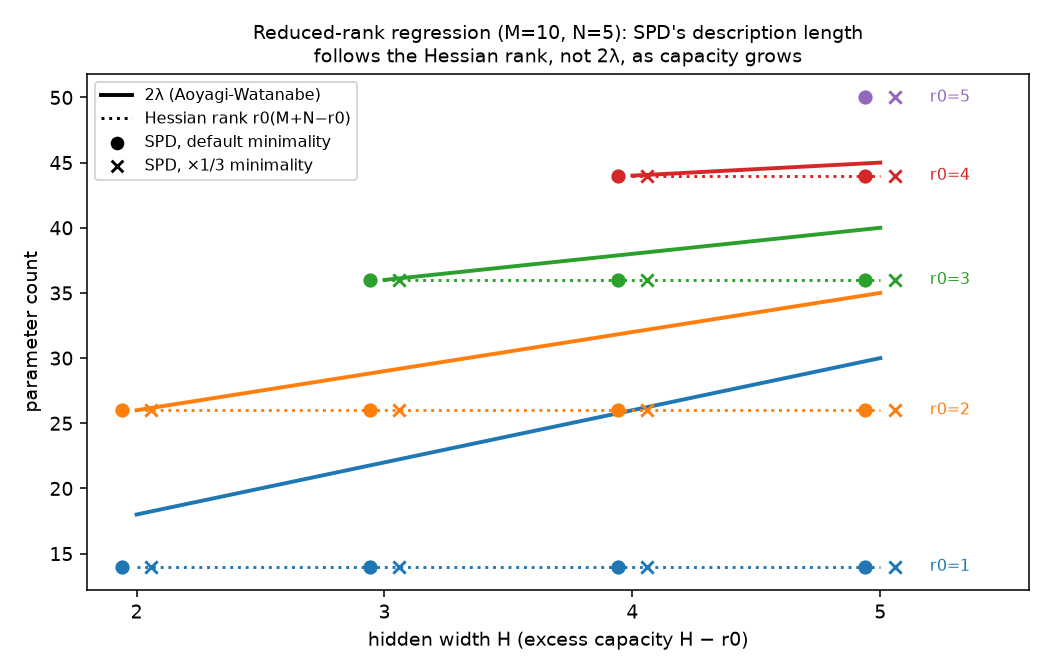
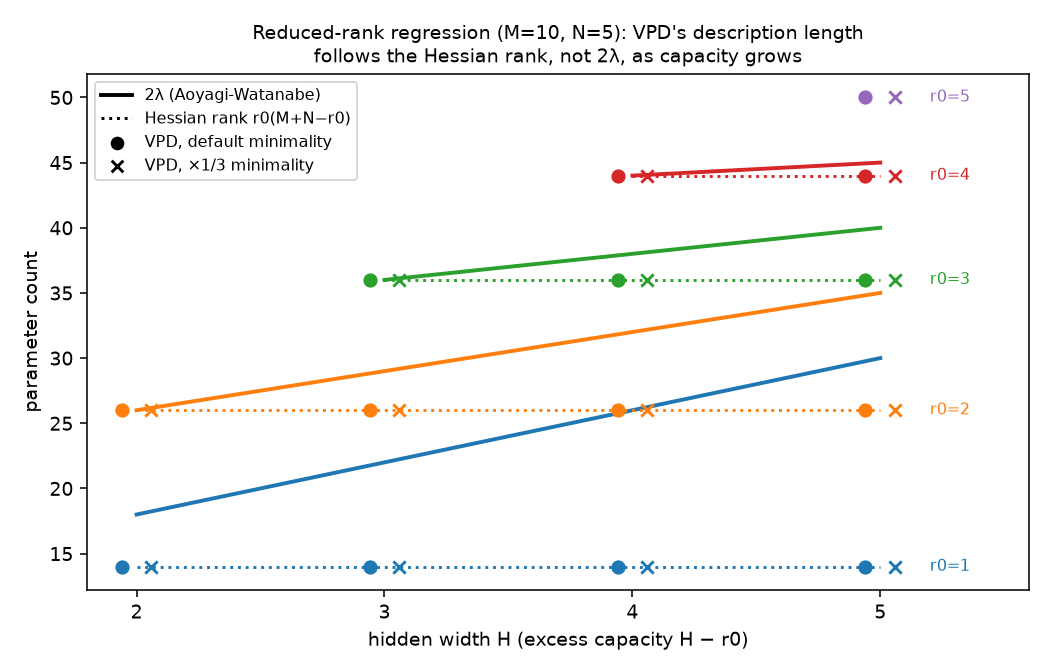
Call the decomposition method VPD, not SPD
The param-decomp trainer and configs used implement VPD (adversarial
Parameter Decomposition, Bushnaq et al. 2026): SPD plus adversarial
reconstruction and frequency minimality. Renamed throughout the README,
write-ups, scripts and figure; the frozen pre-registrations get a dated
terminology amendment (rehashed) instead of edits.

Changed region(s): [[0.2438, 0.0312, 0.8229, 0.0625], [0.1219, 0.1875, 0.3048, 0.25]]

diff --git a/param_decomp_compare/rrr/plot.py b/param_decomp_compare/rrr/plot.py
@@ -1,4 +1,4 @@
-"""Figure: SPD's function-level description length vs 2*lambda and Hessian rank, by H."""
+"""Figure: VPD's function-level description length vs 2*lambda and Hessian rank, by H."""
 import glob, os
 import matplotlib
 matplotlib.use("Agg")
@@ -21,12 +21,12 @@ for r0 in range(1, 6):
             ax.scatter(np.array(h) + (0.06 if mk == "x" else -0.06), v, marker=mk, color=c, s=40, zorder=5)
 ax.plot([], [], "k-", lw=2, label="2λ (Aoyagi-Watanabe)")
 ax.plot([], [], "k:", lw=1.5, label="Hessian rank r0(M+N−r0)")
-ax.scatter([], [], marker="o", color="k", label="SPD, default minimality")
-ax.scatter([], [], marker="x", color="k", label="SPD, ×1/3 minimality")
+ax.scatter([], [], marker="o", color="k", label="VPD, default minimality")
+ax.scatter([], [], marker="x", color="k", label="VPD, ×1/3 minimality")
 ax.set_xlabel("hidden width H (excess capacity H − r0)")
 ax.set_ylabel("parameter count")
 ax.set_xticks(range(2, 6))
-ax.set_title("Reduced-rank regression (M=10, N=5): SPD's description length\n"
+ax.set_title("Reduced-rank regression (M=10, N=5): VPD's description length\n"
              "follows the Hessian rank, not 2λ, as capacity grows", fontsize=10)
 handles, labels = ax.get_legend_handles_labels()
 keep = [i for i, l in enumerate(labels) if not l.startswith("r0=") or l.endswith("2λ")]

diff --git a/param_decomp_compare/rrr/run_rrr_spd.py b/param_decomp_compare/rrr/run_rrr_spd.py
@@ -1,4 +1,4 @@
-"""Run param-decomp's SPD (JAX trainer, unmodified) on a two-layer linear
+"""Run param-decomp's VPD (JAX trainer, unmodified) on a two-layer linear
 reduced-rank-regression target y = W2 W1 x, then score the decomposition.
 
 Run with param-decomp's venv (see PREREGISTRATION.md for the protocol):

diff --git a/param_decomp_compare/rrr/analyze.py b/param_decomp_compare/rrr/analyze.py
@@ -1,4 +1,4 @@
-"""Score the RRR SPD runs against PREREGISTRATION.md (P1-P3)."""
+"""Score the RRR VPD runs against PREREGISTRATION.md (P1-P3)."""
 import glob
 import os
 

diff --git a/param_decomp_compare/rrr/RESULTS.md b/param_decomp_compare/rrr/RESULTS.md
@@ -1,4 +1,4 @@
-# SPD vs λ on reduced-rank regression and matrix factorization
+# VPD vs λ on reduced-rank regression and matrix factorization
 
 Pre-registered in [`PREREGISTRATION.md`](PREREGISTRATION.md) (frozen 2026-10-01 22:26,
 two dated amendments, hashes in `PREREGISTRATION.sha256`).
@@ -13,7 +13,7 @@ but not the Hessian rank:
 - 2λ = NH + (M − H)r0 (Aoyagi-Watanabe), rising with H;
 - Hessian rank = r0(M + N − r0), flat in H.
 
-Which one does param-decomp's SPD decomposition follow?
+Which one does param-decomp's VPD decomposition follow?
 
 ## Setup
 
@@ -29,7 +29,7 @@ Which one does param-decomp's SPD decomposition follow?
 
 ![spd vs llc](spd_vs_llc.png)
 
-| H | r0 | SPD alive L1/L2 (both coeffs) | DL_fn = k(M+N−k) | Hessian rank | 2λ |
+| H | r0 | VPD alive L1/L2 (both coeffs) | DL_fn = k(M+N−k) | Hessian rank | 2λ |
 |---|---|---|---|---|---|
 | 2 | 1 | 1/1 | 14 | 14 | 18 |
 | 3 | 1 | 1/1 | 14 | 14 | 22 |
@@ -52,49 +52,49 @@ Which one does param-decomp's SPD decomposition follow?
   components have CI > 0.5 on 72-100% of inputs; every other component on 0.00%.
 - **P2 (no dependence on H at fixed r0): holds.** The H − r0 excess hidden directions
   produce no alive component at either site, at either coefficient.
-- **P3 (SPD tracks Hessian rank, not λ): holds.** DL_fn equals the Hessian rank in all 28
+- **P3 (VPD tracks Hessian rank, not λ): holds.** DL_fn equals the Hessian rank in all 28
   runs. It differs from 2λ in all 20 runs with H > r0, by up to 16 (H = 5, r0 = 1: 14 vs
   30). The two agree only where H = r0, where there is no excess capacity and the point is
   regular.
 
 **Matrix factorization (r0 = 0)** cannot be run (Amendment 2). The exact target is
 W₁ = W₂ = 0, and param-decomp refuses to decompose a zero matrix. That outcome points the
-same way: SPD has nothing to describe, and its description length is 0, while
+same way: VPD has nothing to describe, and its description length is 0, while
 λ = min(n, m)/2 > 0 (2λ = 5-20 on this grid). The H = 1 cells hit a trainer sharding bug
 and are excluded; they have no excess capacity.
 
 ## Interpretation
 
-- **SPD's description length is a property of the function.** A rank-r0 linear map is
+- **VPD's description length is a property of the function.** A rank-r0 linear map is
   r0 rank-1 pieces, however many unused hidden units the network carries. The unused
   units get zero weight, so no component spends causal importance on them.
 - **λ is a property of the parameterization around the function.** Unused capacity
   creates degenerate, quartic directions in the loss. These add to λ, by (N − r0)/2 per
   extra hidden unit, even though nothing is computed with them. The Hessian is blind to
-  those directions, which is why it agrees with SPD here.
-- **So on this testbed SPD tracks the Hessian rank, not λ.** Read as a description
+  those directions, which is why it agrees with VPD here.
+- **So on this testbed VPD tracks the Hessian rank, not λ.** Read as a description
   length (λ log n bits in SLT's free energy), λ charges *partially* for unused capacity.
   Each degenerate direction costs less than a regular parameter but more than nothing,
-  because specifying "these weights are near zero" still takes some precision. SPD's
+  because specifying "these weights are near zero" still takes some precision. VPD's
   count charges nothing for it.
 - **What this does and does not show.** It does not show λ is the wrong MDL target. It
-  shows SPD and λ measure different things whenever there is excess capacity. Any
-  "LLC = SPD description length" correspondence would have to hold only at regular or
+  shows VPD and λ measure different things whenever there is excess capacity. Any
+  "LLC = VPD description length" correspondence would have to hold only at regular or
   Morse–Bott points (TMS, and the H = r0 cells here), where both reduce to parameter
   counting.
 
 ## Caveats
 
 - **The prediction follows from theory, so this confirms rather than surprises.** With
-  dense Gaussian inputs, SPD's minimality has nothing to separate between inputs. What the
-  runs test is that SPD's actual optimizer, CI function and losses realize the
+  dense Gaussian inputs, VPD's minimality has nothing to separate between inputs. What the
+  runs test is that VPD's actual optimizer, CI function and losses realize the
   theoretical minimum and keep no excess components alive. At both coefficients they do.
 - **Only the minimum-norm target was used.** A target elsewhere on the solution manifold
   (e.g. GD without ridge, excess units non-zero but cancelled by W₂) has a different local
-  λ. The excess components would then be causally inert rather than zero. Whether SPD
+  λ. The excess components would then be causally inert rather than zero. Whether VPD
   still discards them is the natural next run.
-- **Linear targets only.** SPD's interesting regime is sparse, input-dependent
-  mechanism use. That regime is where TMS showed SPD finding descriptions *shorter* than
+- **Linear targets only.** VPD's interesting regime is sparse, input-dependent
+  mechanism use. That regime is where TMS showed VPD finding descriptions *shorter* than
   the ground truth (`../RESULTS.md`).
 
 ## Files

diff --git a/param_decomp_compare/RESULTS.md b/param_decomp_compare/RESULTS.md
@@ -97,11 +97,11 @@ Against the pre-registered prediction:
 DL_A = 2λ = 14 holds at every run that keeps all five features (×1/27 through ×3). That
 follows from the definition of Rule A, so it carries no evidence. The rule is blind to
 splitting (below ×1/3) and to merging (×1, ×3). DL_raw follows both, and has a plateau at
-59 across ×1-×3, the setting SPD's minimality actually prefers.
+59 across ×1-×3, the setting VPD's minimality actually prefers.
 
-## Exploratory: SPD decomposes the untied model, whose λ is 10.5
+## Exploratory: VPD decomposes the untied model, whose λ is 10.5
 
-SPD decomposes `linear1` and `linear2` as independent matrices. The model it describes is
+VPD decomposes `linear1` and `linear2` as independent matrices. The model it describes is
 therefore the *untied* f = ReLU(W₂W₁x + b), with 25 parameters and a GL(2) gauge. At the
 target (W₂ = W₁ᵀ):
 
@@ -109,7 +109,7 @@ target (W₂ = W₁ᵀ):
 - the Hessian has rank 21 of 25: four zero modes (exactly GL(2)), no negative directions.
 
 So this is again Morse–Bott, with **λ_untied = 10.5**. The tied rule 3k − 1 counts the
-wrong model for SPD. The untied analogue is 5k − 4 = 21, from 2 + 2 hidden coordinates
+wrong model for VPD. The untied analogue is 5k − 4 = 21, from 2 + 2 hidden coordinates
 plus a bias per feature, minus the 4-dimensional gauge. That rule was formed after seeing
 the data and is not tested here.
 
@@ -120,10 +120,10 @@ the data and is not tested here.
    non-degenerate parameters agrees with it by construction, and agreement here is
    evidence of nothing beyond correct counting.
 2. **The useful finding is a mismatch in kind, not in number.** At its default
-   coefficient SPD prefers a description with fewer components than the ground truth.
+   coefficient VPD prefers a description with fewer components than the ground truth.
    It merges two near-antipodal features through the ReLU, which is valid on the
-   single-feature inputs SPD's minimality is effectively measured on. λ is a property of
-   the target and does not change across the sweep. So λ cannot be the quantity SPD's
+   single-feature inputs VPD's minimality is effectively measured on. λ is a property of
+   the target and does not change across the sweep. So λ cannot be the quantity VPD's
    minimality is tracking; at most it is a fixed reference that one regime of the sweep
    (×1/3) happens to sit at. Whether the merged description is "wrong" depends on
    whether rare multi-feature inputs (~2% of data at p = 0.05) are reconstructed. This
@@ -134,7 +134,7 @@ the data and is not tested here.
    length can then track λ, track the Hessian rank, or track neither. Note that the
    Hessian rank is a **lower** bound on 2λ (degenerate directions contribute fractional
    amounts), so it undercounts there rather than overcounts.
-   **Done, in [`rrr/RESULTS.md`](rrr/RESULTS.md) (pre-registered, 28 runs).** SPD tracks
+   **Done, in [`rrr/RESULTS.md`](rrr/RESULTS.md) (pre-registered, 28 runs).** VPD tracks
    the Hessian rank exactly in every run. It finds r0 components whatever the excess
    capacity, while 2λ grows by N − r0 per extra hidden unit.
 

diff --git a/README.md b/README.md
@@ -50,7 +50,8 @@ with parameter decomposition (see below).
 ## Does parameter decomposition track the LLC?
 
 This asks whether the LLC could serve as a minimum-description-length target for
-parameter decomposition. It compares λ with the decompositions found by SPD, using
+parameter decomposition. It compares λ with the decompositions found by VPD
+(adVersarial Parameter Decomposition; Bushnaq et al. 2026, the successor to SPD), using
 Goodfire's `param-decomp` implementation, on targets where λ is known. Both studies were
 pre-registered, with predictions hashed before any run.
 
@@ -60,14 +61,14 @@ pre-registered, with predictions hashed before any run.
     λ = 10.5, both Morse–Bott. SGLD gives λ̂ = 7.38 ± 0.69.
   - **Only a calibration case.** At a Morse–Bott point λ is half the Hessian rank, so any
     parameter count agrees with it.
-  - **SPD can beat the ground truth.** An importance-minimality sweep shows SPD recovering
+  - **VPD can beat the ground truth.** An importance-minimality sweep shows VPD recovering
     the ground-truth decomposition only at ×1/3 of the default coefficient. At the default
     it merges two near-antipodal features into one component, a description shorter than
     the ground truth.
 - **Reduced-rank regression** ([`param_decomp_compare/rrr/RESULTS.md`](param_decomp_compare/rrr/RESULTS.md)).
   Here λ and the Hessian rank come apart: unused hidden capacity raises λ but not the
-  Hessian rank. In all 28 runs SPD finds exactly r0 components regardless of hidden width,
-  so its description length equals the **Hessian rank**, not 2λ (off by up to 16). SPD
+  Hessian rank. In all 28 runs VPD finds exactly r0 components regardless of hidden width,
+  so its description length equals the **Hessian rank**, not 2λ (off by up to 16). VPD
   counts the function; λ also charges for the degenerate geometry of unused capacity.
 
 ![spd vs llc](param_decomp_compare/rrr/spd_vs_llc.png)
@@ -95,6 +96,6 @@ Runs all 10 experiments (~10 min on CPU), prints result tables, and writes `plot
 | `experiments.py` | Experiments 1-10 |
 | `plots.py`, `main.py` | Plotting; run everything |
 | `RESULTS.md` | Write-up |
-| `param_decomp_compare/` | LLC vs SPD parameter decomposition: pre-registrations, drivers, write-ups (TMS 5→2; `rrr/` for reduced-rank regression). Requires a `param-decomp` checkout; see each RESULTS.md |
+| `param_decomp_compare/` | LLC vs VPD parameter decomposition: pre-registrations, drivers, write-ups (TMS 5→2; `rrr/` for reduced-rank regression). Requires a `param-decomp` checkout; see each RESULTS.md |
 | `notes/dds_arc.tex` | Note relating DDS to the arc-space picture |
 | `arc_llc_context.md` | Original project spec |

diff --git a/param_decomp_compare/PREREGISTRATION.md b/param_decomp_compare/PREREGISTRATION.md
@@ -97,3 +97,11 @@ disagree with 2λ, and recording it shows the rule matters.
   `torch.set_num_threads(2)`. No estimates had been produced.
 - **P2 already read.** The existing run `p-e78416be` was opened after the freeze and
   before this amendment. P2 is evaluated on it as pre-registered, below.
+
+## Terminology amendment (2026-10-02; no protocol change)
+
+The method was called "SPD" above. The param-decomp trainer and configs used here
+implement **VPD** (adVersarial Parameter Decomposition, Bushnaq et al. 2026). VPD is SPD
+plus an adversarial reconstruction loss (`MergedStochasticSubsetPPGDReconLoss`) and
+frequency minimality, both of which are in the configs run. Read "SPD" as "VPD"
+throughout. Predictions, definitions and runs are unchanged.

diff --git a/param_decomp_compare/rrr/PREREGISTRATION.md b/param_decomp_compare/rrr/PREREGISTRATION.md
@@ -101,3 +101,11 @@ N + H < M + r0. That gives **19 cells**.
   width 1. This cell has H = r0, so it has no excess capacity and is not a discriminating
   cell. It is excluded rather than patched.
 - **Remaining:** 14 cells × 2 coefficients = 28 runs, all H ≥ 2 and r0 ≥ 1.
+
+## Terminology amendment (2026-10-02; no protocol change)
+
+The method was called "SPD" above. The param-decomp trainer and configs used here
+implement **VPD** (adVersarial Parameter Decomposition, Bushnaq et al. 2026). VPD is SPD
+plus an adversarial reconstruction loss (`MergedStochasticSubsetPPGDReconLoss`) and
+frequency minimality, both of which are in the configs run. Read "SPD" as "VPD"
+throughout. Predictions, definitions and runs are unchanged.
